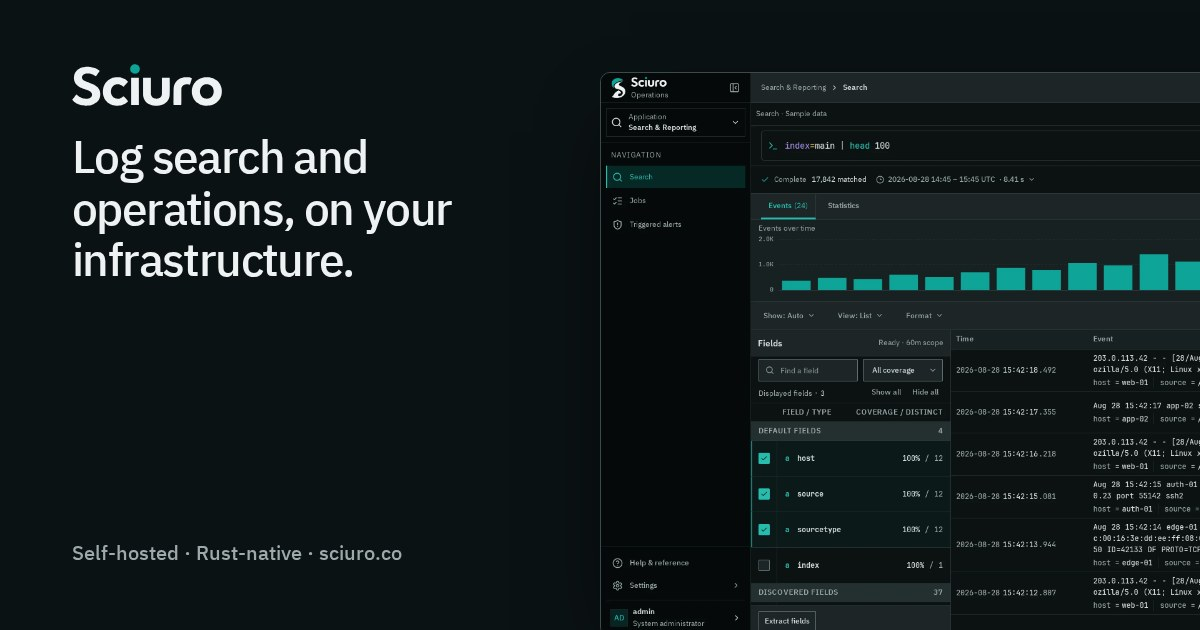
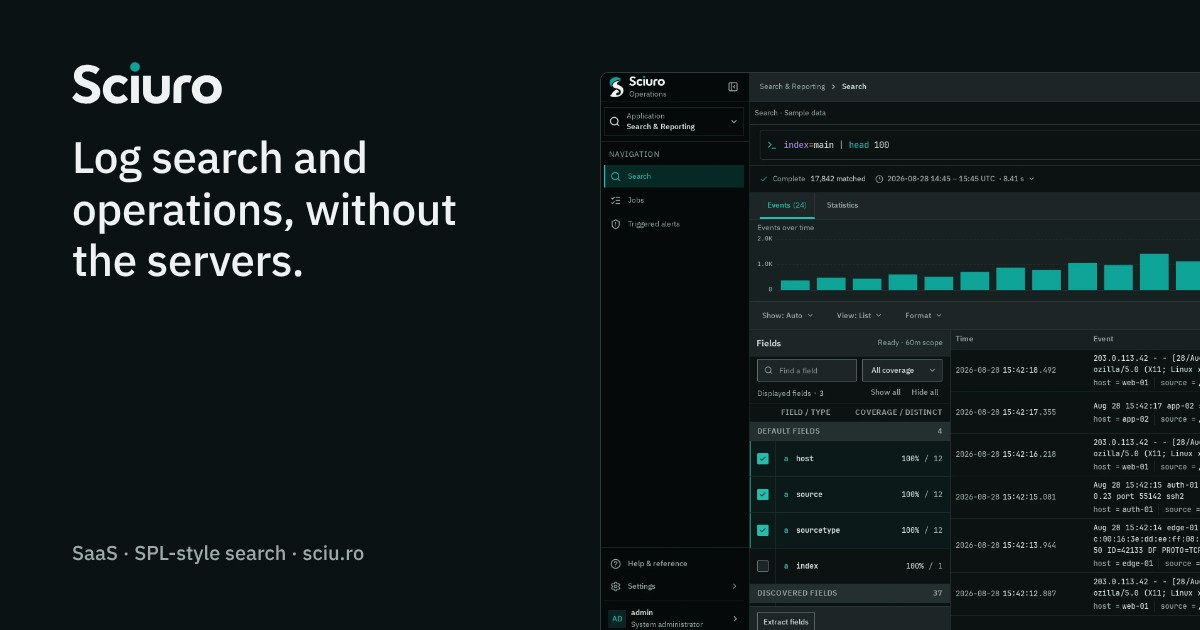
Present Sciuro as a SaaS
Sciuro will be offered as a hosted service, so the page no longer
promises self-hosting:

- Title, description and share text: log search and operations as a
  service, without running the servers.
- Hero: "Log search and operations, without the servers."
- The Deployment section becomes Service: fully hosted, upgrades
  included, plus the forwarder, ingestion and storage details.
- Drop "Rust-native". For a hosted service the implementation language
  is not something customers choose or run.
- Redraw the share image with the new headline and the sciu.ro address
  (it still said sciuro.co).

Claude-Session: https://claude.ai/code/session_014LULJnNb8njFWrmaDPA13F

diff --git a/index.html b/index.html
@@ -4,18 +4,18 @@
   <meta charset="utf-8" />
   <meta name="viewport" content="width=device-width, initial-scale=1, viewport-fit=cover" />
   <meta name="theme-color" content="#050a0b" />
-  <meta name="description" content="Sciuro is self-hosted software for log ingestion, SPL-style search, search jobs, scheduled searches, and alerts." />
+  <meta name="description" content="Sciuro is a log search SaaS for log ingestion, SPL-style search, search jobs, scheduled searches, and alerts — with no servers to run." />
   <meta property="og:type" content="website" />
   <meta property="og:url" content="https://sciu.ro/" />
-  <meta property="og:title" content="Sciuro — self-hosted log search and operations" />
-  <meta property="og:description" content="Collect logs, investigate them with SPL-style search, and act on scheduled results — on your own infrastructure." />
+  <meta property="og:title" content="Sciuro — log search and operations as a service" />
+  <meta property="og:description" content="Collect logs, investigate them with SPL-style search, and act on scheduled results — without running the servers." />
   <meta property="og:image" content="https://sciu.ro/assets/og-sciuro.jpg" />
   <meta property="og:image:width" content="1200" />
   <meta property="og:image:height" content="630" />
   <meta name="twitter:card" content="summary_large_image" />
   <link rel="canonical" href="https://sciu.ro/" />
   <link rel="icon" href="assets/sciuro-logo-dark.svg" type="image/svg+xml" />
-  <title>Sciuro — self-hosted log search and operations</title>
+  <title>Sciuro — log search and operations as a service</title>
   <link rel="preconnect" href="https://fonts.googleapis.com" />
   <link rel="preconnect" href="https://fonts.gstatic.com" crossorigin />
   <link href="https://fonts.googleapis.com/css2?family=IBM+Plex+Sans+KR:wght@400;500;600&amp;family=JetBrains+Mono:wght@400;500&amp;display=swap" rel="stylesheet" />
@@ -289,9 +289,9 @@
 
   <main id="main">
     <section class="hero container" aria-labelledby="hero-title">
-      <p class="eyebrow">Self-hosted · Rust-native</p>
-      <h1 id="hero-title">Log search and operations, on your infrastructure.</h1>
-      <p class="lede">Sciuro collects and indexes machine data, lets your team investigate it with SPL-style search, and turns saved searches into scheduled alerts — on servers you control.</p>
+      <p class="eyebrow">Hosted · SPL-style search</p>
+      <h1 id="hero-title">Log search and operations, without the servers.</h1>
+      <p class="lede">Sciuro collects and indexes machine data, lets your team investigate it with SPL-style search, and turns saved searches into scheduled alerts — as a hosted service, with no servers to run or upgrade.</p>
       <div class="actions">
         <a class="button button-primary" href="#search">Explore the product</a>
         <a class="button button-quiet" href="#contact">Contact Sciuro</a>
@@ -469,14 +469,14 @@
 
     <section id="deploy" class="section container" aria-labelledby="deploy-title">
       <div class="section-head">
-        <p class="eyebrow">Deployment</p>
-        <h2 id="deploy-title">Runs where your data already is.</h2>
+        <p class="eyebrow">Service</p>
+        <h2 id="deploy-title">We run the servers. Your team runs the searches.</h2>
       </div>
       <ul class="deploy">
-        <li><strong>Self-hosted</strong><span>Run Sciuro on servers you operate. Ingestion, indexing and search happen there, under your control.</span></li>
-        <li><strong>Rust-native</strong><span>The server, the forwarder and the offline query tool are written in Rust.</span></li>
+        <li><strong>Fully hosted</strong><span>Sciuro runs the servers for ingestion, indexing and search. Your team sends data in and signs in to search.</span></li>
+        <li><strong>Upgrades included</strong><span>New Sciuro versions roll out on our side, so your team never patches or upgrades the platform.</span></li>
         <li><strong>Durable ingestion</strong><span>HEC acknowledgements and file-monitor checkpoints advance only after events reach durable storage.</span></li>
-        <li><strong>Forwarder</strong><span>Collects files, command output, Docker, journald, host metrics and OTLP logs, buffers them in a disk queue and sends them to Sciuro, optionally over TLS.</span></li>
+        <li><strong>Forwarder</strong><span>Runs on your hosts to collect files, command output, Docker, journald, host metrics and OTLP logs, buffers them in a disk queue and sends them to Sciuro.</span></li>
         <li><strong>Storage</strong><span>A compressed raw journal with inverted indexes, retention by age or total size, and a durability policy per index.</span></li>
         <li><strong>Familiar workflows</strong><span>An HEC-style event endpoint and SPL-style search keep existing collection and query habits usable.</span></li>
       </ul>
